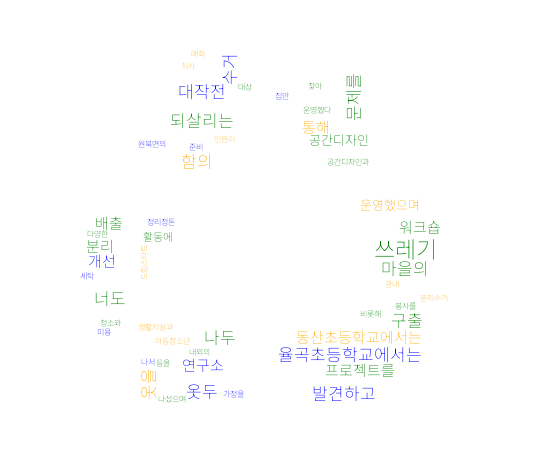
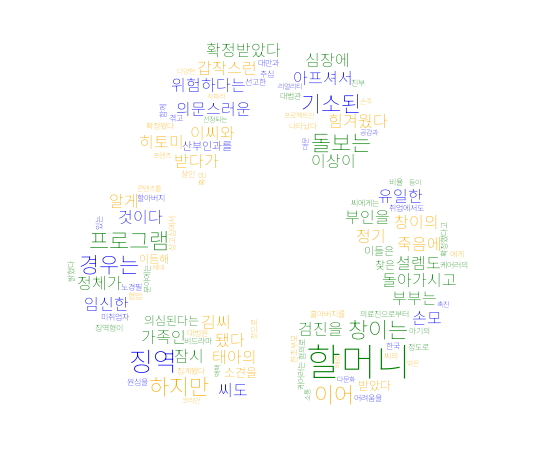
wordCloud_newsList_complete

diff --git a/main/wordCloud_tree.py b/main/wordCloud_tree.py
@@ -16,8 +16,8 @@ logging.basicConfig(
     level=logging.DEBUG,
     format="%(asctime)s - %(levelname)s - %(message)s",
     handlers=[
-        logging.FileHandler("server.log"),
-        logging.StreamHandler()
+        logging.FileHandler("server.log"),  # 로그를 파일에 저장
+        logging.StreamHandler()            # 로그를 콘솔에 출력
     ]
 )
 
@@ -29,62 +29,64 @@ CORS(app)
 CLIENT_ID = "1EMqh9I3E2bRjOi9G8M6"
 CLIENT_SECRET = "A1flID3HVB"
 
-# BASE_DIR 설정 (프로젝트 최상위 폴더)
+# 프로젝트 디렉토리 및 리소스 경로 설정
 BASE_DIR = os.path.abspath(os.path.dirname(__file__))
-FONT_PATH = os.path.join(BASE_DIR, "font", "NotoSansKR-VariableFont_wght.ttf")
-MASK_IMAGE_PATH = os.path.join(BASE_DIR, "image", "Recycle.png")  # Recycle.png로 변경
+FONT_PATH = os.path.join(BASE_DIR, "../font", "NotoSansKR-VariableFont_wght.ttf")  # 폰트 파일 경로
+MASK_IMAGE_PATH = os.path.join(BASE_DIR, "../image", "Recycle.png")               # 마스크 이미지 경로
 
 # 워드클라우드 색상 설정
 recycle_colors = ["#008000", "#0000FF", "#FFAA00"]
 def recycle_colors_func(word, font_size, position, orientation, random_state=None, **kwargs):
+    # 워드클라우드 텍스트에 초록색, 파란색, 주황색 랜덤 적용
     return random.choice(recycle_colors)
 
 # 네이버 뉴스 데이터 가져오기
 def fetch_naver_news(display=5):
-    keyword = "환경"
+    keyword = "분리수거"  # 검색 키워드
     url = "https://openapi.naver.com/v1/search/news.json"
     headers = {
-        "X-Naver-Client-Id": CLIENT_ID,
-        "X-Naver-Client-Secret": CLIENT_SECRET
+        "X-Naver-Client-Id": CLIENT_ID,  # 네이버 API 클라이언트 ID
+        "X-Naver-Client-Secret": CLIENT_SECRET  # 네이버 API 클라이언트 Secret
     }
     params = {
-        "query": keyword,
-        "display": display,
-        "start": 1,
-        "sort": "date"
+        "query": keyword,  # 검색어
+        "display": display,  # 가져올 뉴스 개수
+        "start": 1,         # 검색 시작 위치
+        "sort": "date"      # 최신순 정렬
     }
     try:
         response = requests.get(url, headers=headers, params=params)
-        response.raise_for_status()
+        response.raise_for_status()  # HTTP 요청 성공 여부 확인
         data = response.json()
-        logging.info(f"네이버 뉴스 API 응답 데이터: {data}")
-        return data["items"]
+        logging.info(f"네이버 뉴스 API 요청 성공")
+        return data["items"]  # 뉴스 데이터 반환
     except requests.exceptions.RequestException as e:
         logging.error(f"네이버 뉴스 API 요청 실패: {e}")
-        return []
+        return []  # 실패 시 빈 리스트 반환
 
 # 텍스트 전처리 및 명사 추출
 def preprocess_text(text):
-    tokens = re.findall(r'\b[가-힣]{2,}\b', text)
-    stop_words = {"것", "수", "있다", "하다", "의", "를", "이", "에", "가", "은", "들", "에서"}
-    word_freq = Counter([word for word in tokens if word not in stop_words])
+    tokens = re.findall(r'\b[가-힣]{2,}\b', text)  # 한글 단어 추출
+    stop_words = {"것", "수", "있다", "하다", "의", "를", "이", "에", "가", "은", "들", "에서"}  # 불용어 제거
+    word_freq = Counter([word for word in tokens if word not in stop_words])  # 단어 빈도 계산
     return word_freq
 
 # 워드클라우드 생성 함수
 def generate_wordcloud(word_freq, output_path):
     try:
-        mask = np.array(Image.open(MASK_IMAGE_PATH))
+        mask = np.array(Image.open(MASK_IMAGE_PATH))  # 마스크 이미지 로드
         wordcloud = WordCloud(
-            font_path=FONT_PATH,
-            background_color="white",
-            mask=mask,
-            color_func=recycle_colors_func
+            font_path=FONT_PATH,  # 워드클라우드에 사용할 폰트
+            background_color="white",  # 배경색 설정
+            mask=mask,  # 마스크 이미지 적용
+            color_func=recycle_colors_func  # 색상 설정
         ).generate_from_frequencies(word_freq)
-        wordcloud.to_file(output_path)
+        wordcloud.to_file(output_path)  # 워드클라우드 이미지 파일로 저장
         logging.info("워드클라우드 이미지 생성 완료")
     except Exception as e:
         logging.error(f"Failed to generate wordcloud: {e}")
 
+# 메인 페이지 라우트
 @app.route("/", methods=["GET"])
 def home():
     return """
@@ -96,43 +98,45 @@ def home():
     </ul>
     """
 
+# 워드클라우드 생성 API
 @app.route("/api/wordcloud", methods=["GET"])
 def wordcloud_endpoint():
     logging.info("워드클라우드 생성 요청을 처리합니다.")
-    descriptions = [item["description"] for item in fetch_naver_news(display=5)]
+    descriptions = [item["description"] for item in fetch_naver_news(display=5)]  # 뉴스 내용 추출
 
-    if not descriptions:
+    if not descriptions:  # 뉴스 데이터가 없으면 에러 반환
         return jsonify({"error": "기사를 가져올 수 없습니다."}), 500
 
-    combined_text = " ".join(descriptions)
-    word_freq = preprocess_text(combined_text)
-    output_path = "wordcloud.png"
-    generate_wordcloud(word_freq, output_path)
+    combined_text = " ".join(descriptions)  # 모든 뉴스 내용을 합침
+    word_freq = preprocess_text(combined_text)  # 텍스트 전처리
+    output_path = "wordcloud.png"  # 워드클라우드 출력 파일 경로
+    generate_wordcloud(word_freq, output_path)  # 워드클라우드 생성
 
-    return send_file(output_path, mimetype="image/png")
+    return send_file(output_path, mimetype="image/png")  # 생성된 이미지를 반환
 
+# 뉴스 리스트 API
 @app.route("/api/news", methods=["GET"])
 def news_endpoint():
     logging.info("뉴스 리스트 요청을 처리합니다.")
-    articles = fetch_naver_news(display=10)  # 최대 6개의 기사 불러오기
+    articles = fetch_naver_news(display=10)  # 최대 10개의 뉴스 가져오기
 
-    if not articles:
+    if not articles:  # 뉴스 데이터가 없으면 에러 반환
         return jsonify({"error": "기사를 가져올 수 없습니다."}), 500
 
     # 중복 제거를 위한 Set 사용
     seen_titles = set()
     news_list = []
     for item in articles:
-        title = html.unescape(item["title"].replace("<b>", "").replace("</b>", ""))
-        if title not in seen_titles:  # 제목이 이미 처리된 적이 없으면 추가
+        title = html.unescape(item["title"].replace("<b>", "").replace("</b>", ""))  # 제목 정리
+        if title not in seen_titles:  # 중복된 제목 제거
             seen_titles.add(title)
             news_list.append({
-                "title": title,
-                "link": item["link"]
+                "title": title,  # 기사 제목
+                "link": item["link"]  # 기사 링크
             })
 
-    return jsonify(news_list)
+    return jsonify(news_list)  # JSON으로 뉴스 리스트 반환
 
 # Flask 서버 실행
 if __name__ == "__main__":
-    app.run(debug=True, host="0.0.0.0", port=5001)
+    app.run(debug=True, host="0.0.0.0", port=5001)  # 서버 실행
